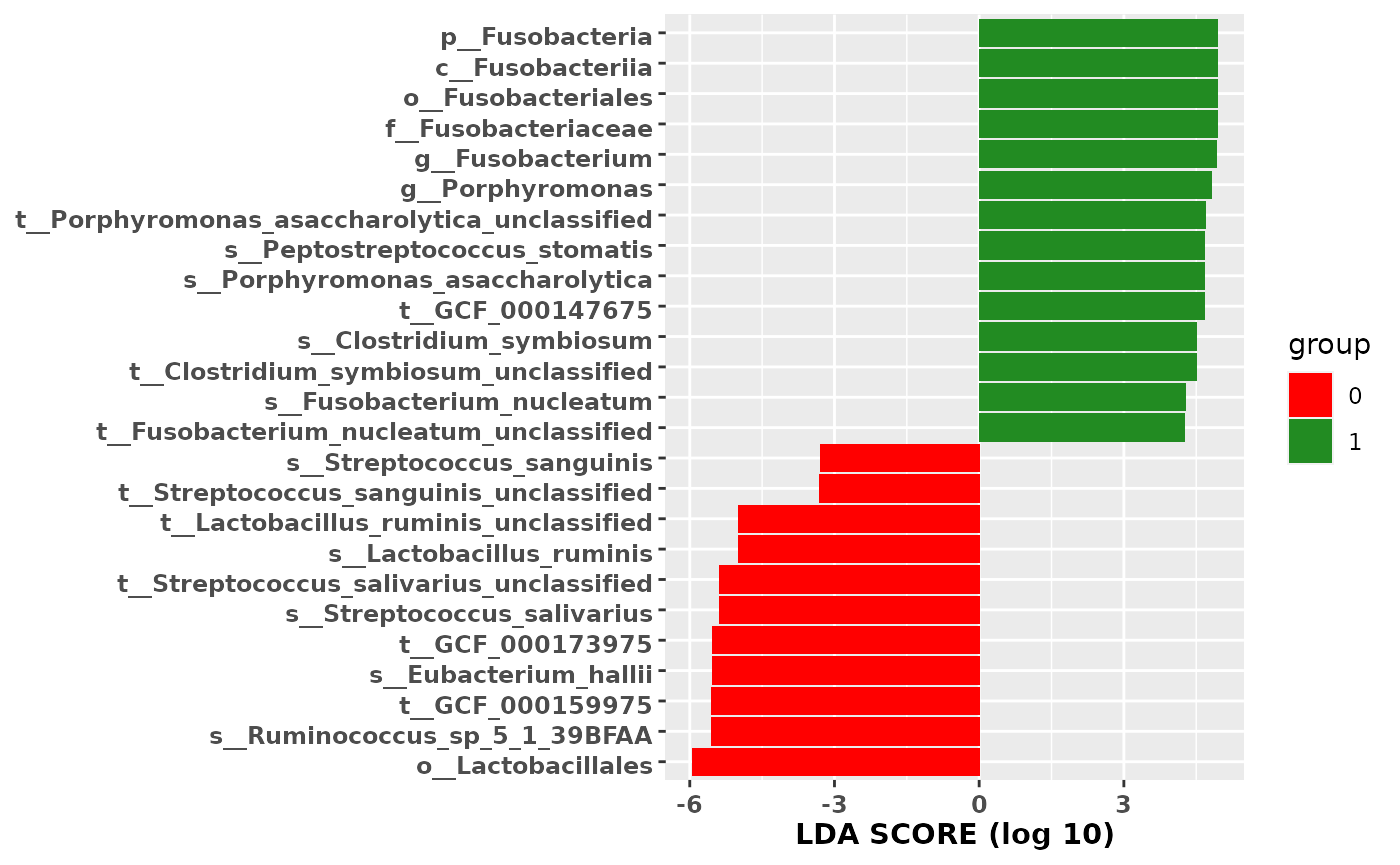
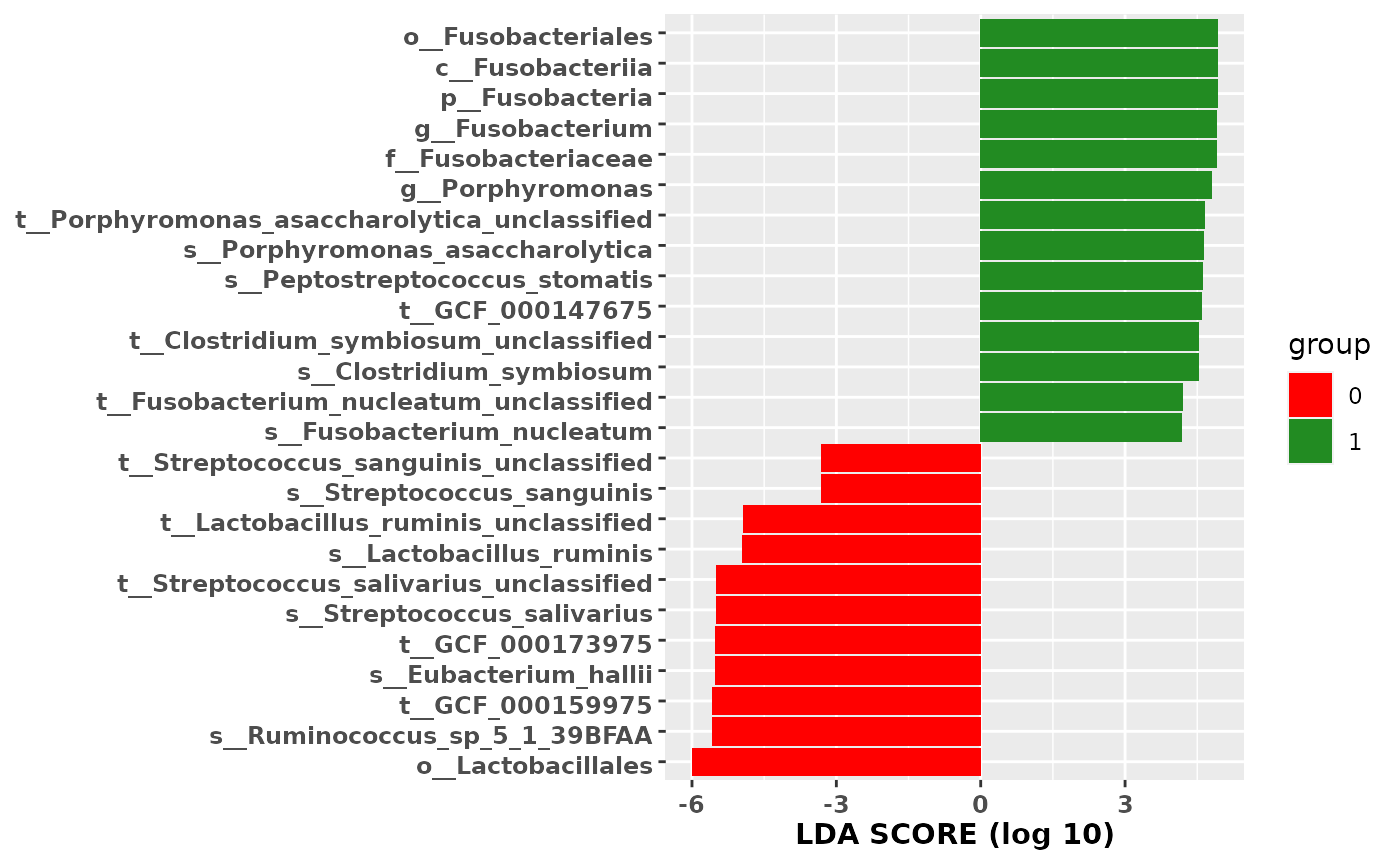
Deploying to gh-pages from  @ dc9c9338c3e18f22ffa0d85746f18eb07383875b 🚀

diff --git a/articles/lefser.html b/articles/lefser.html
@@ -37,7 +37,7 @@
       </button>
       <span class="navbar-brand">
         <a class="navbar-link" href="../index.html">lefser</a>
-        <span class="version label label-default" data-toggle="tooltip" data-placement="bottom" title="Released version">0.99.4</span>
+        <span class="version label label-default" data-toggle="tooltip" data-placement="bottom" title="Released version">0.99.5</span>
       </span>
     </div>
 
@@ -134,12 +134,12 @@
 <span class="va">res</span> <span class="op">&lt;-</span> <span class="fu"><a href="../reference/lefser.html">lefser</a></span><span class="op">(</span><span class="va">zeller14</span>, groupCol <span class="op">=</span> <span class="st">"study_condition"</span>, blockCol <span class="op">=</span> <span class="st">"age_category"</span><span class="op">)</span>
 <span class="fu"><a href="https://rdrr.io/r/utils/head.html">head</a></span><span class="op">(</span><span class="va">res</span><span class="op">)</span></pre></div>
 <pre><code>##                           Names    scores
-## 1            o__Lactobacillales -5.952863
-## 2 s__Ruminococcus_sp_5_1_39BFAA -5.551162
-## 3              t__GCF_000159975 -5.551162
-## 4         s__Eubacterium_hallii -5.526397
-## 5              t__GCF_000173975 -5.526397
-## 6   s__Streptococcus_salivarius -5.392406</code></pre>
+## 1            o__Lactobacillales -5.998889
+## 2 s__Ruminococcus_sp_5_1_39BFAA -5.564655
+## 3              t__GCF_000159975 -5.564655
+## 4         s__Eubacterium_hallii -5.513613
+## 5              t__GCF_000173975 -5.513613
+## 6   s__Streptococcus_salivarius -5.481317</code></pre>
 </div>
 <div id="visualizing-results-with-lefserplot" class="section level1">
 <h1 class="hasAnchor">
@@ -173,7 +173,7 @@
 ## [8] methods   base     
 ## 
 ## other attached packages:
-##  [1] lefser_0.99.4               SummarizedExperiment_1.19.9
+##  [1] lefser_0.99.5               SummarizedExperiment_1.19.9
 ##  [3] Biobase_2.49.1              GenomicRanges_1.41.6       
 ##  [5] GenomeInfoDb_1.25.11        IRanges_2.23.10            
 ##  [7] S4Vectors_0.27.13           BiocGenerics_0.35.4        

diff --git a/reference/lefserPlot.html b/reference/lefserPlot.html
@@ -83,7 +83,7 @@ and whether they are more abundant in '0' or '1' sample group." />
       </button>
       <span class="navbar-brand">
         <a class="navbar-link" href="../index.html">lefser</a>
-        <span class="version label label-default" data-toggle="tooltip" data-placement="bottom" title="Released version">0.99.4</span>
+        <span class="version label label-default" data-toggle="tooltip" data-placement="bottom" title="Released version">0.99.5</span>
       </span>
     </div>
 

diff --git a/reference/zeller14.html b/reference/zeller14.html
@@ -84,7 +84,7 @@ directory &quot;data-raw&quot;." />
       </button>
       <span class="navbar-brand">
         <a class="navbar-link" href="../index.html">lefser</a>
-        <span class="version label label-default" data-toggle="tooltip" data-placement="bottom" title="Released version">0.99.4</span>
+        <span class="version label label-default" data-toggle="tooltip" data-placement="bottom" title="Released version">0.99.5</span>
       </span>
     </div>
 

diff --git a/reference/lefser.html b/reference/lefser.html
@@ -86,7 +86,7 @@ are identified as biomarkers." />
       </button>
       <span class="navbar-brand">
         <a class="navbar-link" href="../index.html">lefser</a>
-        <span class="version label label-default" data-toggle="tooltip" data-placement="bottom" title="Released version">0.99.4</span>
+        <span class="version label label-default" data-toggle="tooltip" data-placement="bottom" title="Released version">0.99.5</span>
       </span>
     </div>
 

diff --git a/404.html b/404.html
@@ -81,7 +81,7 @@
       </button>
       <span class="navbar-brand">
         <a class="navbar-link" href="https://waldronlab.io/lefser//index.html">lefser</a>
-        <span class="version label label-default" data-toggle="tooltip" data-placement="bottom" title="Released version">0.99.4</span>
+        <span class="version label label-default" data-toggle="tooltip" data-placement="bottom" title="Released version">0.99.5</span>
       </span>
     </div>
 

diff --git a/articles/index.html b/articles/index.html
@@ -81,7 +81,7 @@
       </button>
       <span class="navbar-brand">
         <a class="navbar-link" href="../index.html">lefser</a>
-        <span class="version label label-default" data-toggle="tooltip" data-placement="bottom" title="Released version">0.99.4</span>
+        <span class="version label label-default" data-toggle="tooltip" data-placement="bottom" title="Released version">0.99.5</span>
       </span>
     </div>
 

diff --git a/news/index.html b/news/index.html
@@ -81,7 +81,7 @@
       </button>
       <span class="navbar-brand">
         <a class="navbar-link" href="../index.html">lefser</a>
-        <span class="version label label-default" data-toggle="tooltip" data-placement="bottom" title="Released version">0.99.4</span>
+        <span class="version label label-default" data-toggle="tooltip" data-placement="bottom" title="Released version">0.99.5</span>
       </span>
     </div>
 

diff --git a/reference/index.html b/reference/index.html
@@ -81,7 +81,7 @@
       </button>
       <span class="navbar-brand">
         <a class="navbar-link" href="../index.html">lefser</a>
-        <span class="version label label-default" data-toggle="tooltip" data-placement="bottom" title="Released version">0.99.4</span>
+        <span class="version label label-default" data-toggle="tooltip" data-placement="bottom" title="Released version">0.99.5</span>
       </span>
     </div>
 

diff --git a/authors.html b/authors.html
@@ -81,7 +81,7 @@
       </button>
       <span class="navbar-brand">
         <a class="navbar-link" href="index.html">lefser</a>
-        <span class="version label label-default" data-toggle="tooltip" data-placement="bottom" title="Released version">0.99.4</span>
+        <span class="version label label-default" data-toggle="tooltip" data-placement="bottom" title="Released version">0.99.5</span>
       </span>
     </div>
 

diff --git a/index.html b/index.html
@@ -40,7 +40,7 @@
       </button>
       <span class="navbar-brand">
         <a class="navbar-link" href="index.html">lefser</a>
-        <span class="version label label-default" data-toggle="tooltip" data-placement="bottom" title="Released version">0.99.4</span>
+        <span class="version label label-default" data-toggle="tooltip" data-placement="bottom" title="Released version">0.99.5</span>
       </span>
     </div>
 
